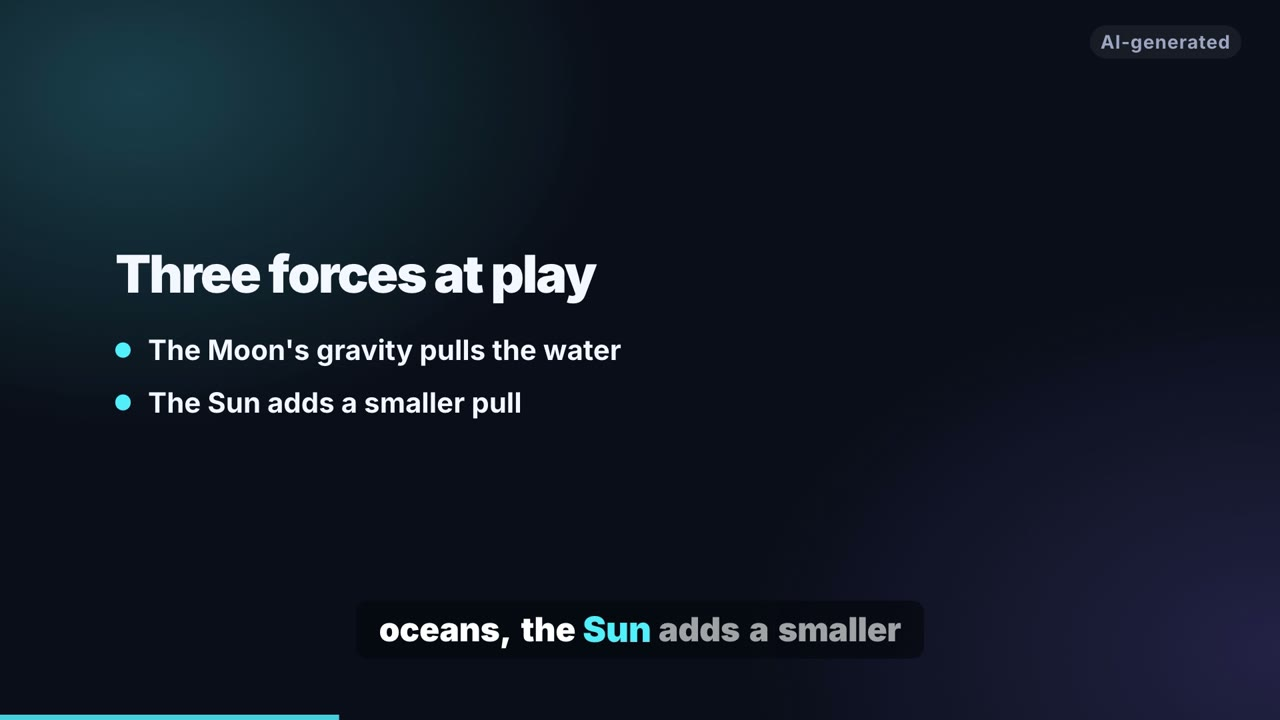
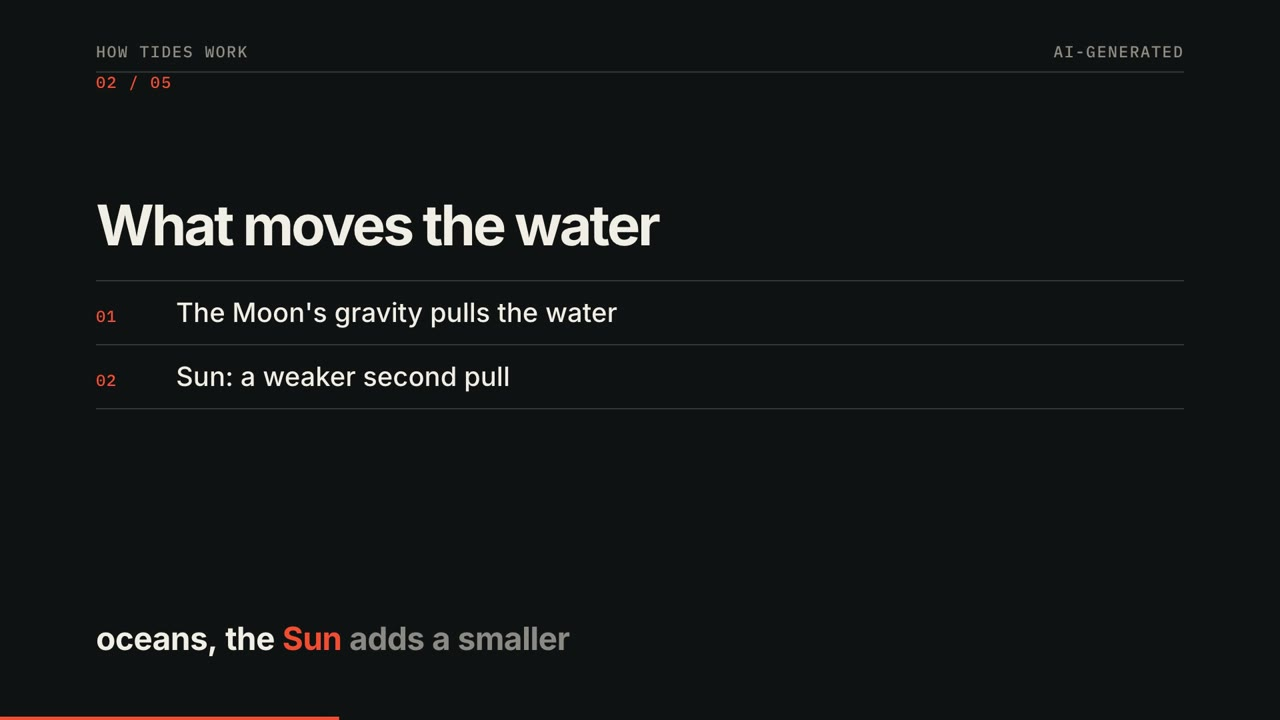
Redesign themes so renders stop looking like a template
Flat backgrounds instead of drifting glow orbs and grids, flush-left
layouts, a mono running header with a scene counter, hairline rules
instead of cards and pills, solid bars with only the largest one in the
accent colour, a two-column compare without "VS", and quieter captions.
Midnight is now ink black with one vermilion accent; Paper uses EB
Garamond; Signal uses League Gothic.

Also rewrites the example copy, regenerates the README GIFs (2.75 MB to
640 KB), the poster and the editor screenshot.

diff --git a/src/compose/runtime.js b/src/compose/runtime.js
@@ -5,7 +5,7 @@
  *
  * Markup contract (written by src/compose/index.mjs):
  *   [data-scene]             a scene clip; data-start / data-duration in seconds
- *   [data-anim]              rise | fade | pop | wipe | grow | bar | count | drift
+ *   [data-anim]              rise | fade | pop | wipe | grow | bar | count
  *     data-at                seconds after the scene starts
  *     data-len               animation length in seconds (default 0.7)
  *     data-frac              bar: final fill 0..1
@@ -82,14 +82,13 @@
       var p = easeOut(raw);
       var st = a.el.style;
       switch (a.kind) {
-        case 'rise': st.opacity = p; st.transform = 'translateY(' + (1 - p) * 0.6 + 'em)'; break;
+        case 'rise': st.opacity = p; st.transform = 'translateY(' + (1 - p) * 0.25 + 'em)'; break;
         case 'fade': st.opacity = p; break;
         case 'pop': st.opacity = p; st.transform = 'scale(' + (0.86 + 0.14 * easeOutBack(raw)) + ')'; break;
         case 'wipe': st.clipPath = 'inset(0 ' + (100 - p * 100) + '% 0 0)'; break;
         case 'grow': st.transform = 'scaleX(' + p + ')'; break;
         case 'bar': st.transform = 'scaleX(' + p * a.frac + ')'; break;
         case 'count': a.el.textContent = a.prefix + fmt(a.value * p, a.decimals) + a.suffix; break;
-        case 'drift': st.transform = 'translate(' + Math.sin(t * 0.21) * 3 + '%,' + Math.cos(t * 0.17) * 3 + '%) scale(' + (1.08 + Math.sin(t * 0.11) * 0.04) + ')'; break;
       }
     }
     for (var k = 0; k < words.length; k++) {

diff --git a/THIRD_PARTY_NOTICES.md b/THIRD_PARTY_NOTICES.md
@@ -28,7 +28,7 @@ This file is a good-faith summary, not legal advice. The license files shipped w
 | `phonemizer` | GPL-3.0 | Phonemizer used by kokoro-onnx. Runs in the same separate process. |
 | `soundfile` / libsndfile | BSD-3-Clause / LGPL-2.1-or-later | Writes WAV files. |
 | whisper.cpp + Whisper models (only if `CAPTIONS_ALIGN=whisper`) | MIT | Word-level caption alignment, downloaded on first use. |
-| Fonts: Inter, Playfair Display, Archivo Black | SIL Open Font License 1.1 | Theme fonts, fetched and cached by HyperFrames at render time. |
+| Fonts: Inter, EB Garamond, League Gothic, Oswald, IBM Plex Mono, JetBrains Mono | SIL Open Font License 1.1 | Theme fonts, fetched and cached by HyperFrames at render time. |
 | Fonts: Noto (core, CJK, color emoji), Liberation | SIL OFL 1.1 | Fallback fonts for every language. |
 | tini | MIT | Init process. |
 | Caddy (only `docker-compose.https.yml`) | Apache-2.0 | Separate container for HTTPS. |

diff --git a/skills/reelwright/SKILL.md b/skills/reelwright/SKILL.md
@@ -31,7 +31,7 @@ Full schema with every field and limit: `references/storyboard.md`. The essentia
   "voice": "af_heart",
   "captions": true,
   "scenes": [
-    { "type": "title", "heading": "Why the sea breathes twice a day", "narration": "Twice a day, the ocean rises and falls. Here is why." },
+    { "type": "title", "heading": "Why the sea rises twice a day", "narration": "Twice a day, the ocean rises and falls. Here is why." },
     { "type": "stat", "value": 46, "suffix": "%", "label": "of the Moon's pull is what the Sun adds", "source": "NOAA", "narration": "..." },
     { "type": "outro", "heading": "Two bulges, one spinning planet", "narration": "..." }
   ]

diff --git a/README.md b/README.md
@@ -116,7 +116,7 @@ Full guide, sizing and hardening: **[docs/deploy-hostinger.md](docs/deploy-hosti
   "aspect": "16:9",
   "theme": "midnight",
   "scenes": [
-    { "type": "title", "heading": "Why the sea breathes twice a day",
+    { "type": "title", "heading": "Why the sea rises twice a day",
       "narration": "Twice a day, the ocean rises and falls. The reason is a tug of war in space." },
     { "type": "stat", "value": 46, "suffix": "%", "label": "of the Moon's pull is what the Sun adds",
       "source": "Ratio of solar to lunar tidal force",
